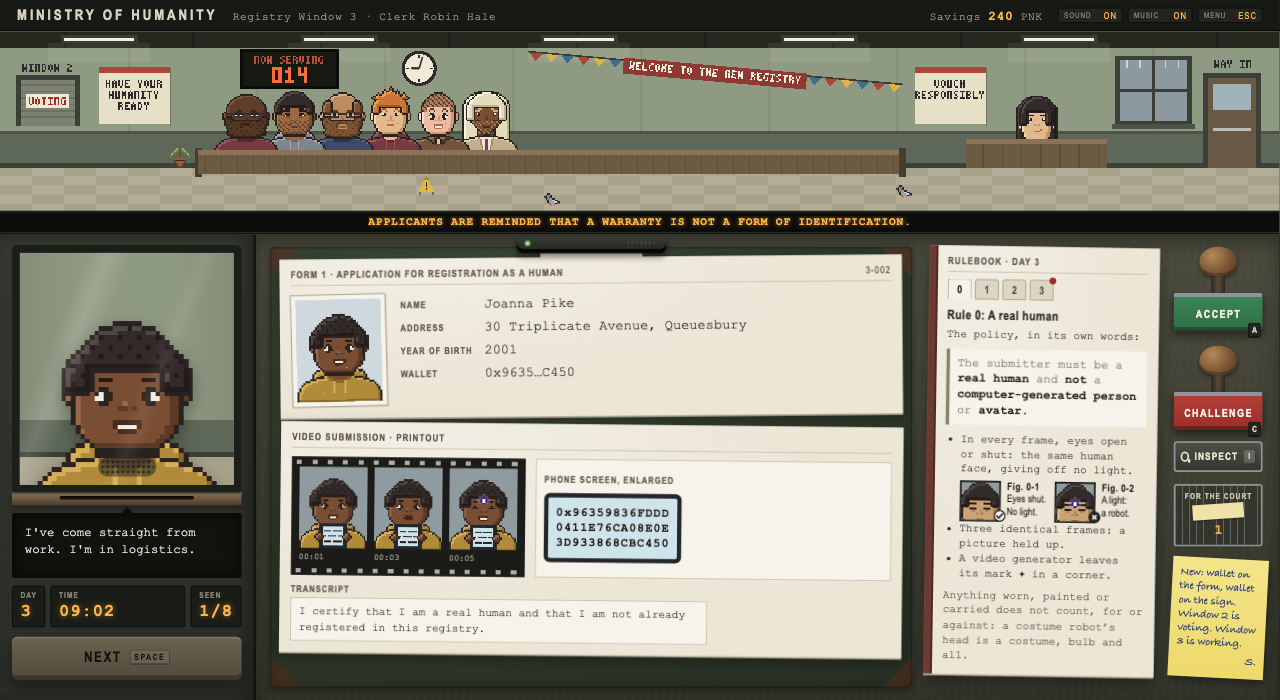
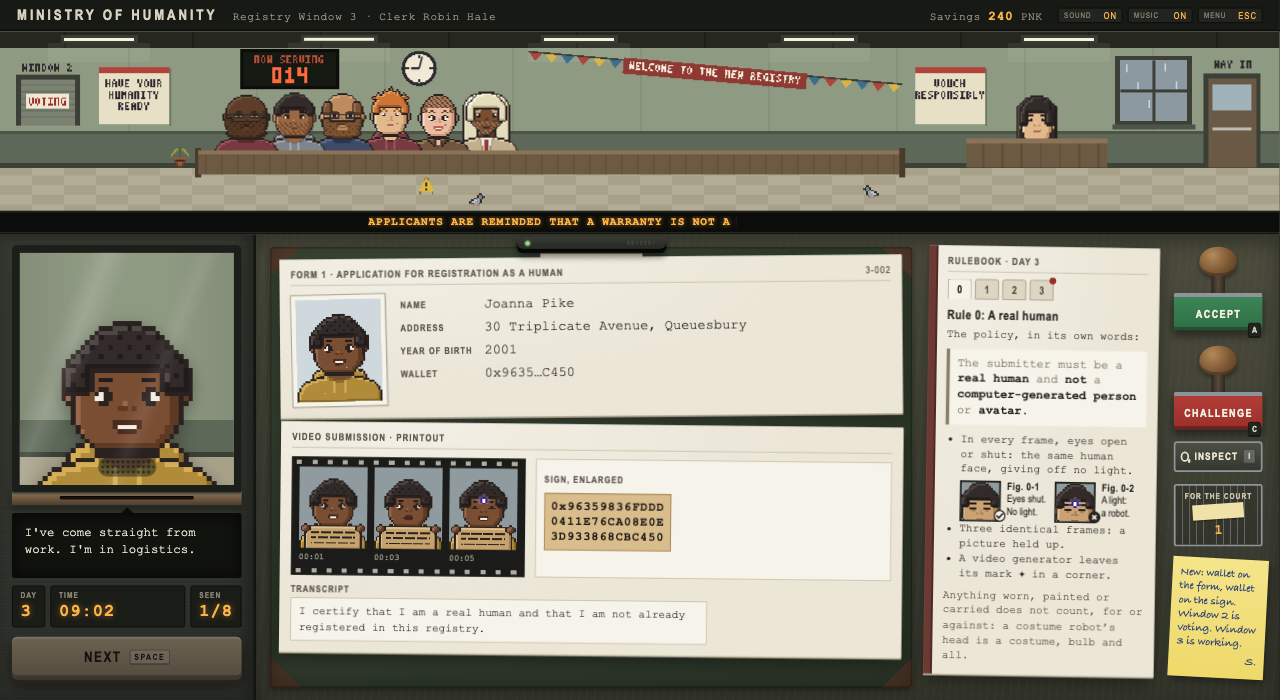
feat(signs): about half the queue hold the address up on a phone, and a phone says nothing
From day 3 a phone was only ever the Rule 3 phone look-alike or the day 3
unit: 3.9% of signs, and a phone-holder was valid 37% of the time against 72%
on paper. Now the medium is a draw of its own for everyone holding an address,
the fakes as often as the honest, the day 3 unit included:

- 49.7% of address signs on a phone over 300 weeks; valid on a phone 72.8%,
  on paper 72.7%; on day 3, Pat aside, 85.2% and 86.3%.
- Pat's laminated sign on day 3 and whoever says they copied the address out
  stay on paper, as they say.
- Memo 0-N no longer depends on the unit's phone.
- The phone's case fits its panel at 1024x768.
- The draw comes from its own seeded stream, so no week, seed or snapshot
  moved.

Checks: typecheck clean; 296 unit tests; 63 e2e.

diff --git a/src/gen/signMedium.test.ts b/src/gen/signMedium.test.ts
@@ -1,0 +1,92 @@
+import { describe, expect, it } from 'vitest';
+import { ON_PAPER } from '../content/applicants';
+import type { GeneratedApplicant } from './applicant';
+import { generateWeek } from './day';
+
+// From day 3 everyone holds their wallet address up in the video, on paper or on a phone's screen.
+// Both are allowed (Rule 3), and the registry's app suggests the phone, so about half use one: the
+// honest and the fakes alike, the units too. Only Pat's laminated sign on day 3 is fixed, on paper.
+const WEEKS = Array.from({ length: 300 }, (_, i) => generateWeek(i + 1));
+const valid = (a: GeneratedApplicant) => a.planted.length === 0;
+/** How someone holds their address up; null if they hold up something else, or nothing. */
+const medium = (a: GeneratedApplicant) => (a.video.sign?.kind === 'address' ? (a.video.sign.phone ? 'phone' : 'paper') : null);
+/** Everyone holding an address up on day `day`, over the 300 weeks. */
+const holders = (day: number) => WEEKS.flatMap((week) => week[day - 1]).filter((a) => medium(a) !== null);
+const SIGN_DAYS = [3, 4, 5, 6, 7];
+const share = (people: GeneratedApplicant[], keep: (a: GeneratedApplicant) => boolean) => people.filter(keep).length / people.length;
+const onPhone = (a: GeneratedApplicant) => medium(a) === 'phone';
+/** How much likelier someone on a phone is to be valid than someone on paper, in points out of 1. */
+const gap = (people: GeneratedApplicant[]) => share(people.filter(onPhone), valid) - share(people.filter((a) => !onPhone(a)), valid);
+/** The one fake whose medium the script fixes: Pat's laminated sign on day 3. */
+const scripted = (a: GeneratedApplicant, day: number) => day === 3 && a.cast === 'pat';
+
+describe('the sign: paper or phone', () => {
+  it('holds the address up on a phone about as often as on paper from day 3: 40 to 60% of address signs, every day', () => {
+    for (const day of SIGN_DAYS) {
+      const phones = share(holders(day), onPhone);
+      expect(phones, `day ${day}`).toBeGreaterThanOrEqual(0.4);
+      expect(phones, `day ${day}`).toBeLessThanOrEqual(0.6);
+    }
+  });
+
+  // Over seeds 1 to 2100, in windows of 300 weeks, no day's gap was over 3.1 points, nor the week's
+  // over 1.3. A draw that gave the honest a phone at 55% and the fakes at 45% was 6.7 to 9 points apart
+  // on days 4 to 7, and 7.6 over the week.
+  // Pat's laminated sign on day 3 is the script's, and the clerk knows Pat by name and face: left aside.
+  it('lets no phone say whether the papers are good: the valid share on a phone and on paper is within 5 points, over the week and each day', () => {
+    const drawn = (day: number) => holders(day).filter((a) => !scripted(a, day));
+    const week = SIGN_DAYS.flatMap(drawn);
+    expect(week.filter((a) => !valid(a)).length).toBeGreaterThan(1000);
+    expect(Math.abs(gap(week))).toBeLessThan(0.05);
+    for (const day of SIGN_DAYS) expect(Math.abs(gap(drawn(day))), `day ${day}`).toBeLessThan(0.05);
+  });
+
+  it('gives the fakes a phone as often as the honest: the phone share of each is within 5 points over the week, Pat’s day 3 sign aside', () => {
+    const week = SIGN_DAYS.flatMap((day) => holders(day).filter((a) => !scripted(a, day)));
+    const honest = share(week.filter(valid), onPhone);
+    const fakes = share(week.filter((a) => !valid(a)), onPhone);
+    expect(week.filter((a) => !valid(a)).length).toBeGreaterThan(1000);
+    expect(Math.abs(honest - fakes), `honest ${honest}, fakes ${fakes}`).toBeLessThan(0.05);
+  });
+
+  it('puts both media among the Rule 3 offenders, and in the hands of the look-alike one character out', () => {
+    const everyone = SIGN_DAYS.flatMap(holders);
+    for (const mistake of ['two-wrong', 'wrong-address'] as const) {
+      const offenders = everyone.filter((a) => a.planted.some((p) => p.rule === 'sign' && p.mistake === mistake));
+      expect(new Set(offenders.map(medium)), mistake).toEqual(new Set(['paper', 'phone']));
+    }
+    const oneOut = everyone.filter((a) => a.lookAlike?.rule === 'sign' && a.lookAlike.kind === 'one-wrong');
+    expect(new Set(oneOut.map(medium))).toEqual(new Set(['paper', 'phone']));
+  });
+
+  it('gives the same medium for the same seed', () => {
+    const media = (seed: number) => generateWeek(seed).map((queue) => queue.map((a) => medium(a)));
+    for (const seed of [1, 2, 7, 40, 123456]) expect(media(seed)).toEqual(media(seed));
+    expect(media(1)).not.toEqual(media(2));
+  });
+
+  it('hands paper to whoever says they copied the address out, unless they are the phone look-alike', () => {
+    const said = SIGN_DAYS.flatMap(holders).filter((a) => ON_PAPER.includes(a.remark));
+    const free = said.filter((a) => !(a.lookAlike?.rule === 'sign' && a.lookAlike.kind === 'phone'));
+    expect(free.length).toBeGreaterThan(10);
+    expect(new Set(free.map(medium))).toEqual(new Set(['paper']));
+  });
+
+  it("gives day 3's unit the same draw as anyone, and Pat the laminated sign Pat promised", () => {
+    const units = WEEKS.map((week) => week[2].find((a) => a.cast === 'unit')!);
+    expect(share(units, onPhone)).toBeGreaterThan(0.4);
+    expect(share(units, onPhone)).toBeLessThan(0.6);
+    for (const week of WEEKS) expect(medium(week[2].find((a) => a.cast === 'pat')!)).toBe('paper');
+  });
+
+  // The clerk knows Pat by name and face from days 1 and 2; set Pat aside and the only fake left on day
+  // 3 is the unit. When its phone was fixed by the script, nobody on paper that day was a fake.
+  it('leaves no lean on day 3 either, Pat aside: the unit is as likely on paper as on a phone', () => {
+    const day3 = holders(3).filter((a) => a.cast !== 'pat');
+    const fakes = day3.filter((a) => !valid(a));
+    expect(fakes.length).toBe(WEEKS.length);
+    expect(new Set(fakes.map((a) => a.cast))).toEqual(new Set(['unit']));
+    expect(new Set(fakes.map(medium))).toEqual(new Set(['paper', 'phone']));
+    expect(Math.abs(gap(day3))).toBeLessThan(0.05);
+  });
+});

diff --git a/src/gen/day.ts b/src/gen/day.ts
@@ -4,7 +4,7 @@
 // it, and `planted` describes each applicant under it. Nothing here depends on what the clerk
 // decides, so a day's queue is the same however the days before it went; the desk judges it
 // against the registry the clerk actually built.
-import { FIRST_NAMES, LAST_NAMES, REMARKS, STREETS, TOWNS } from '../content/applicants';
+import { FIRST_NAMES, LAST_NAMES, ON_PAPER, REMARKS, STREETS, TOWNS } from '../content/applicants';
 import {
   AGENT, CLERK, CLONE, CUTOUT, DEEPFAKE, FIRST_APPLICANT, INFLUENCER, LIKENESS, PAT, PAT_MOTHER, REGULARS, SYBIL_FARM, TWINS,
   TWINS_FORM, UNIT_ON_FILE_RECORD, UNIT_OWNERS, UNITS, type CastId, type RegularId,
@@ -101,6 +101,7 @@ const EXTRAS: readonly (readonly [Extra, number])[] = [
 ];
 
 type Week = {
+  seed: number;
   rng: Rng;
   /** Names, addresses and remarks already used this week, so nobody repeats. */
   used: Set<string>;
@@ -112,7 +113,7 @@ type Week = {
 
 export function planWeek(seed: number): WeekPlan {
   const rng = createRng(seed);
-  const w: Week = { rng, used: new Set(CAST_NAMES), faces: new Set(), refused: [] };
+  const w: Week = { seed, rng, used: new Set(CAST_NAMES), faces: new Set(), refused: [] };
   for (const p of [...Object.values(CAST_PORTRAITS), FIRST_APPLICANT_PORTRAIT, CATALOGUE_GENTLEMAN, CLONE_PORTRAIT]) w.faces.add(faceKey(p));
 
   // Who comes when. Ethel is registered on the first morning; the other regulars come once, from
@@ -143,7 +144,7 @@ export function planWeek(seed: number): WeekPlan {
     const seen: Registry[] = [];
     const challenged: GeneratedApplicant[] = [];
     queue.forEach((a, n) => {
-      if (day >= 3) papersForSign(w, a, queue, n);
+      if (day >= 3) papersForSign(w, a, queue, day, n);
       if (day >= 4 && a.voucher === undefined) a.voucher = chooseVoucher(w, a, registry, day);
       seen.push(registry);
       registry = atWindow(registry, a);
@@ -267,8 +268,16 @@ function arrange(rng: Rng, n: number, first: GeneratedApplicant | null, early: G
 
 // ---------------------------------------------------------------- papers
 
-/** Wallet on the form and sign in the video, from day 3. */
-function papersForSign(w: Week, a: GeneratedApplicant, queue: GeneratedApplicant[], n: number) {
+/** Share of the queue who hold their address up on a phone rather than on paper. */
+const ON_A_PHONE = 0.5;
+
+/**
+ * Wallet on the form and sign in the video, from day 3. The registry's app suggests a phone for the
+ * sign, so about half the queue hold one up and the rest have written the address out, the honest and
+ * the fakes alike, units included. A few hold what they said they would: Pat's laminated sign on day 3
+ * and anyone who says they copied the address out are on paper, the `phone` look-alike on a phone.
+ */
+function papersForSign(w: Week, a: GeneratedApplicant, queue: GeneratedApplicant[], day: number, n: number) {
   const { rng } = w;
   a.wallet ??= wallet(rng);
   if (a.video.sign !== undefined) return;
@@ -285,8 +294,24 @@ function papersForSign(w: Week, a: GeneratedApplicant, queue: GeneratedApplicant
     sign = { kind: 'address', text: other.wallet };
   } else if (kind === 'one-wrong') sign = { kind: 'address', text: miswrite(rng, a.wallet, 1) };
   else if (kind === 'phone') sign = { kind: 'address', text: a.wallet, phone: true };
+  const onPaper = (a.cast === 'pat' && day === 3) || ON_PAPER.includes(a.remark);
+  if (sign?.kind === 'address' && !onPaper && onPhone(w.seed, day, n)) sign = { ...sign, phone: true };
   a.video = { ...a.video, sign };
 }
+
+/**
+ * Whether the day's n-th applicant has their address on a phone: a draw of its own, from the week's
+ * seed, the day and the place in the queue, never from the week's stream, so nothing else in the week moves.
+ */
+const onPhone = (seed: number, day: number, n: number) =>
+  createRng([seed, day, n].reduce((h, part) => fmix(((h ^ part) + 0x9e3779b9) >>> 0), 0x70686f6e /* "phon" */)).next() < ON_A_PHONE;
+
+// Murmur3's finaliser: every bit of the input moves every bit of the output.
+const fmix = (h: number) => {
+  h = Math.imul(h ^ (h >>> 16), 0x85ebca6b);
+  h = Math.imul(h ^ (h >>> 13), 0xc2b2ae35);
+  return (h ^ (h >>> 16)) >>> 0;
+};
 
 /** From day 4: a voucher who is registered and free today, unless the applicant's fault is the voucher. */
 function chooseVoucher(w: Week, a: GeneratedApplicant, registry: Registry, day: number): string {
@@ -400,8 +425,6 @@ function unitOn(day: number): GeneratedApplicant {
     planted: tell ? [{ rule: 'human', mistake: 'machine' }] : [],
   };
   if (day >= 3) a.wallet = u.wallet;
-  // Day 3: the address on its phone, in full and the right way up.
-  if (day === 3) a.video = { ...a.video, sign: { kind: 'address', text: u.wallet, phone: true } };
   if (day === 4) {
     a.voucher = LIKENESS;
     a.planted = [{ rule: 'vouch', mistake: 'company' }];

diff --git a/e2e/fit.spec.ts b/e2e/fit.spec.ts
@@ -83,3 +83,31 @@ for (const [width, height] of [
     ]);
   });
 }
+
+// From day 3 about half the queue hold their address up on a phone, a case drawn around the screen:
+// it must be no wider than a paper sign and fit the panel wherever a sign does. Seed 1, day 6: the
+// first applicant holds paper, the third a phone.
+test('a phone held up in the video is no wider than a paper sign and stays inside its panel at 1024×768', async ({ page }) => {
+  await page.setViewportSize({ width: 1024, height: 768 });
+  await page.goto('/?seed=1&day=6');
+  await page.getByRole('button', { name: /Open the window/ }).click();
+  const panel = page.getByTestId('sign');
+  // The printout lands turned a few degrees, which widens every box on it until it settles.
+  const landed = () => page.waitForFunction(() => document.querySelector('.paper-video')?.getAnimations().every((a) => a.playState === 'finished'));
+  await page.getByRole('button', { name: 'Call next applicant' }).click();
+  await expect(panel.getByText('Sign, enlarged')).toBeVisible();
+  await landed();
+  const paper = (await panel.locator('.sign-text').boundingBox())!;
+  for (let i = 0; i < 2; i++) {
+    await page.getByRole('button', { name: 'Challenge' }).click();
+    await page.getByRole('button', { name: 'Call next applicant' }).click();
+  }
+  await expect(panel.getByText('Phone screen, enlarged')).toBeVisible();
+  await landed();
+  const [phone, still] = [(await panel.locator('.sign-text.phone').boundingBox())!, (await panel.boundingBox())!];
+  expect(phone.width).toBeLessThanOrEqual(paper.width);
+  expect(phone.x).toBeGreaterThanOrEqual(still.x);
+  expect(phone.x + phone.width).toBeLessThanOrEqual(still.x + still.width);
+  expect(phone.y + phone.height).toBeLessThanOrEqual(still.y + still.height);
+  await fitsIn(page, 1024, 768, [panel]);
+});

diff --git a/src/content/applicants.ts b/src/content/applicants.ts
@@ -29,6 +29,11 @@ export type Town = (typeof TOWNS)[number];
 
 type Lines = readonly string[];
 
+/** Said by someone who wrote their address out by hand: from day 3 they hold it up on paper, never on a phone. */
+const COPIED_IT_OUT = "I copied my wallet address out this morning. Forty-two characters. I've never concentrated so hard.";
+/** Remarks that say the sign is handwritten. Whoever says one holds their address up on paper. */
+export const ON_PAPER: readonly string[] = [COPIED_IT_OUT];
+
 /**
  * What applicants say at the window. Small talk: never part of the video, and no rule reads it.
  * Most remarks are about something the clerk can see (the coat, the mustache, the street on
@@ -95,7 +100,7 @@ export const REMARKS: {
     "If I'm challenged, do I get a lawyer or a jury? I'd prefer a lawyer. Juries have opinions.",
     "I don't know what a registry is, but I would like to be in one.",
     "My neighbour vouched for me, then I vouched for him. We've been doing it all week.",
-    "I copied my wallet address out this morning. Forty-two characters. I've never concentrated so hard.",
+    COPIED_IT_OUT,
     "Please don't say the word wallet too loudly. My mother doesn't know I have one.",
     "It says submissions are final and cannot be edited. I haven't slept since I read that.",
     'I was registered last year, but it expired in March. I was a bit less human for a fortnight.',

diff --git a/src/content/verdicts.ts b/src/content/verdicts.ts
@@ -54,7 +54,7 @@ export const CITATION_MEMOS: Record<RuleId, readonly string[]> = {
 export const UNIT_MEMOS: readonly string[] = [
   'Memo 0-L: The applicant was a home robot. It shut its eyes and lit up. Humans do only one of those.',
   'Memo 0-M: The applicant shut its eyes twice in five seconds, and switched on both times. Its household has been informed.',
-  'Memo 0-N: Two things were lit in frame 3: the phone, which was held up, and the forehead, which was not.',
+  'Memo 0-N: The address in frame 3 was in order. The light above it was not.',
   'Memo 4-L: A company is not a registered human, whatever its brochure says.',
   'Memo 5-L: The factory made this face twice. The registry takes each face once.',
   'Memo 0-P: Likeness Robotics has asked what the income is per unit. The Ministry has not replied.',

diff --git a/src/ui/desk.css b/src/ui/desk.css
@@ -1451,10 +1451,12 @@ mark {
   line-height: 1.3;
 }
 
-/* The same address on a phone: a lit screen in a dark case. */
+/* The same address on a phone: a lit screen in a dark case. Case and screen margin together are a
+   pixel inside the paper's 8px a side, so a phone is no wider than a sign and fits the panel wherever
+   a sign does, even once the stage's scale has rounded the case. */
 .sign-text.phone {
-  padding: 8px 9px;
-  border: 5px solid #23262b;
+  padding: 8px 3px;
+  border: 4px solid #23262b;
   border-radius: 7px;
   background: #cfe3ea;
   box-shadow: none;

diff --git a/src/gen/applicant.ts b/src/gen/applicant.ts
@@ -32,7 +32,11 @@ export type LookAlikes = {
   human: 'costume';
   phrase: never;
   photo: 'new-look';
-  /** One character wrong; the address on a phone's screen. */
+  /**
+   * One character wrong; the address on a phone's screen. Since about half of everyone holds a phone
+   * up (day.ts papersForSign), `phone` looks like anyone and tests nothing; it stays so the week's
+   * random numbers do not move.
+   */
   sign: 'one-wrong' | 'phone';
   vouch: 'ethel' | 'week-registrant';
   duplicate: 'first-cousin' | 'twin';

diff --git a/notes/game-design.md b/notes/game-design.md
@@ -33,7 +33,7 @@ As in Papers, Please, the story is scripted and the filler is random. One thread
 |---|---|---|
 | 1 | The phrase; Rule 0 is on the first page, as it has always been, and on day 1 the rulebook is open there at every call. No Gazette yet: the supervisor's welcome letter, which says what a unit is and why it lights up. | Tutorial: a valid applicant, then the "hooman", with one guided inspect (pressing INSPECT turns the book to Rule 1). Then the first unit, whose forehead lights up when it shuts its eyes in frame 3, as in Rule 0's Fig. 0-2. |
 | 2 | Photo. Someone registered with a photo of a more attractive man. | The clock arrives. Pat's mirror selfie; the unit shuts its eyes twice in five seconds and lights up both times. |
-| 3 | The sign. A registration was claimed with someone else's wallet. | The unit holds its address up on a phone and shuts its eyes: two lights in frame 3, and only the phone is held up. The fork is proposed. |
+| 3 | The sign. A registration was claimed with someone else's wallet. | The unit holds its address up in order, on paper or on a phone like anyone, and shuts its eyes in frame 3: the address passes and the light above it does not. The fork is proposed. |
 | 4 | One vouch. Registry lookup opens. A man registered at Window 6 on his own vouch. | Pat and the mother. The unit is vouched for by its maker. |
 | 5 | No duplicates. Three cousins with one face. | The Sybil Farm, the Twins, and a unit whose face Window 7 registered last month. |
 | 6 | Living. Socrates. | Hardest day. Pat's perfect application. |
@@ -42,14 +42,14 @@ As in Papers, Please, the story is scripted and the filler is random. One thread
 ## Funny is not the same as fake
 - **Most applicants are valid:** about 65 to 75% on any day (day 1, the scripted tutorial, is 3 of 5). Later days are harder because fakes get subtler and there is more to check, not because there are more fakes.
 - **One fault per applicant, every day.** Papers, Please's designer found that more faults per entrant made the game easier, not harder. Difficulty comes from subtler faults and more rules in force. The only exceptions are two non-humans that also get something else wrong: the Agent's video is generated (Rule 0) and it slips on one more rule, and the Cardboard Cutout is a picture (Rule 0) that cannot blink (Rule 6). Nobody breaks more than one of Rules 1 to 6, and each Likeness unit breaks one rule only.
-- **Appearance never gives the answer.** Roughly half of the absurd-looking appearances are valid. The best jokes are the ridiculous applicant who is completely legit and the boring-looking one who is a sybil. Rule 0 is read from the video, not from the window: the units, the Deepfake and the Agent look like anyone at the window, and Dave, robot helmet and all, is human in every frame.
+- **Appearance never gives the answer.** Roughly half of the absurd-looking appearances are valid. The best jokes are the ridiculous applicant who is completely legit and the boring-looking one who is a sybil. Rule 0 is read from the video, not from the window: the units, the Deepfake and the Agent look like anyone at the window, and Dave, robot helmet and all, is human in every frame. What the sign is on says nothing either: from day 3 about half the queue hold their address up on a phone, fakes and honest alike, the units included.
 - **Nothing point-like between the brows, on anyone.** That is where a unit's lamp shows, so no applicant gets a bindi, a tikka, a gem or a sticker there, and a cultural mark is never a trap. Anything worn across the forehead is a band, not a point, and is there in the photo and in every frame.
 - **The rulebook is the only judge.** An absurd applicant who breaks no rule in force is valid and must be accepted, with a straight face. Each new rule comes with its reason, usually something that got registered the day before.
 
 ## What the player sees for each applicant
 Kept small so checking stays quick:
 - **Profile card:** name, procedurally drawn photo, address, birth year, and from day 3 the wallet address, shortened the way a wallet shows it (0x3F9A…C21E).
-- **Video strip:** three frames, a transcript of at most two lines, and from day 3 the sign they hold up. A blink shows as closed eyes in a frame (two, for someone who blinks twice); no label ever says whether anyone blinked.
+- **Video strip:** three frames, a transcript of at most two lines, and from day 3 the sign they hold up, written on paper or on a phone's screen. A blink shows as closed eyes in a frame (two, for someone who blinks twice); no label ever says whether anyone blinked.
 - **Voucher:** one name, from day 4.
 - **Registry lookup,** from day 4: a Look up button beside the voucher's name (or V) says whether they are registered and whom they are already vouching for today; a Search this face button on the video printout (or F) says whether the face is on file already. The Registry tab opens with the answer, which states facts, never a verdict. A name can also be typed. On the day a tool arrives (the lookup on day 4, the face search on day 5), a line under the first applicant's papers says what it is and which key to press, and goes once the player uses that tool; it never says what to look up or what the answer means.
 - **Rulebook:** a page per rule, today's rule open; on day 1, Rule 0, at every call, so the welcome letter, the sticky note and the book agree (the guided Inspect turns it to Rule 1, the page its hint names). It fits the window without scrolling. Under Rule 0's first check is Fig. 0: the Ministry's specimen face, nobody in the queue, in a video frame with its eyes shut, twice: ✓ Fig. 0-1, no light; ✗ Fig. 0-2, a light between the brows as big as that day's unit's (the smallest on a day without one), captioned "A light: a robot.", so the book says what the light means. A caption is three lines at most: a fourth makes the figure taller than its stills, and on day 6 the page then costs the hall. It is drawn by the game's own renderer at the desk's scale, and shows what to look for, never who: the face is nobody's, and the hair is no fake's (it was short and dark brown, like every week's day 2 unit, until 29 Sep 2026; now it is black). Day 7's unit has a lit slit, which the renderer's lamps do not have yet: until slice 5 adds it, Fig. 0-2 shows the small lamp on day 7, and slice 5 must give it the slit.
@@ -86,10 +86,10 @@ The real policy's aim is a registry where each entry is "a unique, living, exist
 
 | Day | Rule | In the real registry | Offenders | Valid look-alikes |
 |---|---|---|---|---|
-| 0 (always) | A real human: in every frame of the video, eyes open or shut, the same human face, giving off no light of its own, a person and not a picture held up, filmed and not generated. Anything worn, painted or carried does not count, for or against. The rulebook quotes the policy with the words that count in bold, and shows Fig. 0 under the lamp check. | The policy's first requirement in every version since 2021: "The submitter must be a real human and not a computer-generated person or avatar." A human in a mask or costume is a formatting matter under the real rules, not a humanity one. The challenge reason was "Does not exist", now "Sybil attack". | a Likeness unit (a light between the brows in every frame where its eyes are shut); the Deepfake (the ears change between frames); the Cardboard Cutout (three identical frames: a picture held up, not a person); the Agent (a video generator's mark ✦ in the corner of every frame) | Dave, a costume robot's head under his arm, bulb and all; the second Twin, filmed with the first; Nervous Nigel, eyes shut at 00:01 and 00:05 and no light either time; anyone holding their address up on a lit phone (from day 3) |
+| 0 (always) | A real human: in every frame of the video, eyes open or shut, the same human face, giving off no light of its own, a person and not a picture held up, filmed and not generated. Anything worn, painted or carried does not count, for or against. The rulebook quotes the policy with the words that count in bold, and shows Fig. 0 under the lamp check. | The policy's first requirement in every version since 2021: "The submitter must be a real human and not a computer-generated person or avatar." A human in a mask or costume is a formatting matter under the real rules, not a humanity one. The challenge reason was "Does not exist", now "Sybil attack". | a Likeness unit (a light between the brows in every frame where its eyes are shut); the Deepfake (the ears change between frames); the Cardboard Cutout (three identical frames: a picture held up, not a person); the Agent (a video generator's mark ✦ in the corner of every frame) | Dave, a costume robot's head under his arm, bulb and all; the second Twin, filmed with the first; Nervous Nigel, eyes shut at 00:01 and 00:05 and no light either time; anyone holding their address up on a lit phone (about half the queue, from day 3) |
 | 1 | The video contains the key words of the phrase, in order: "**I certify** that **I am** a **real human** and that **I am not** already **registered** in this **registry**." The small words (that, a, and, already, in, this) may be swapped or left out, "I'm" counts as "I am", and anything else said, before, after or in between, is not assessed. The rulebook prints the key words in bold. | The phrase is word for word the real one. The real policy is kinder still: accents, mispronunciations and swapped words "are not grounds for rejection". | "a real hooman"; "in this ministry"; silence; the Agent's paraphrase | an "um" or a "sorry" in the middle; "I'm"; "in the registry" |
 | 2 | The photo is of the face in the video, facing the camera, and not mirrored. | Incorrect submission. Filters and mirrored selfies are banned. In 2023 one challenger went through the queue removing every mirrored photo; a vote to allow them ("check if you identify yourself every morning in the bathroom mirror") was blocked on procedure. | a photo of someone better-looking; a mirrored selfie (the mole is on the other cheek); the Influencer's filter | a new haircut or new glasses (hair is not the face) |
-| 3 | The sign in the video shows the wallet address on the form, in full and the right way up, on paper or on a phone's screen. One character may be wrong; two may not. | The real rule, one-typo allowance included: the full address, "no ENS; no ellipsis", held "in the right orientation to be read", and "the sign can be a screen" (the current app suggests a phone). | two characters wrong; no sign; the Agent's QR code; someone else's address (the next person in the queue's) | one character wrong; the address on a phone |
+| 3 | The sign in the video shows the wallet address on the form, in full and the right way up, on paper or on a phone's screen. One character may be wrong; two may not. | The real rule, one-typo allowance included: the full address, "no ENS; no ellipsis", held "in the right orientation to be read", and "the sign can be a screen" (the current app suggests a phone). | two characters wrong; no sign; the Agent's QR code; someone else's address (the next person in the queue's) | one character wrong; the address on a phone, which since 29 Sep 2026 about half of everyone shows, as the real app suggests, the fakes as often as the honest. The generator keeps its `phone` look-alike kind, always on a phone, but it now looks like anyone and tests nothing, even as day 3's first applicant. Every fault above but the QR code and no sign turns up on paper and on a phone, and whoever says they copied the address out holds paper. Pat's laminated sign on day 3 is paper, as Pat says it will be. The day 3 unit takes the same draw as anyone: when the script gave it a phone every week, day 3's only other fake was Pat, so nobody on paper that day but Pat was a fake. |
 | 4 | One vouch, from a registered human who is not already vouching for someone else. | One vouch, from someone who knows you; each vouch serves one applicant at a time; when a vouchee is removed as a sybil, the voucher is removed too. | vouched for by a company (a Likeness unit, by its maker); by someone not registered (Pat's mother); the Voucher Ring (three strangers vouching in a circle, none registered; not built yet); the second person Ethel vouches for today | vouched by Ethel (her first today); vouched by anyone the registry lists, even a fake the player let in yesterday |
 | 5 | No face already in the registry. | Duplicate (in the second registry, "Sybil attack"). Registering several times at once rejects every one. A twin is registered by filming both twins together. | the Sybil Farm (every cousin after the first one registered); Your Clone; a Likeness unit (its factory face is on file); a fake accepted earlier in the week, back in a hat | a family of four at one address (four faces; not built yet); the second Twin, filmed with the first; the Farm's first cousin |
 | 6 | Living: born between 1900 and today, and blinks in the video. | Deceased, and Does not exist: "submitters not able to give recent proof of life are to be considered deceased". Deepfakes were first caught because they rarely blinked. | Socrates (born 470 BC: he comes before day 6, and the rule is made because of him); the Cardboard Cutout (same pose in every frame, no blink); the Agent (born "v4"); a typo in the year (1197) | Grandma Ethel (1922); Nigel (blinks constantly) |

diff --git a/notes/acceptance.md b/notes/acceptance.md
@@ -5,9 +5,9 @@ Fill Evidence with a commit hash, test output, screenshot path or clip. "The age
 ## Always true
 | Check | Evidence |
 |---|---|
-| `npm run typecheck` and `npm test` pass | 2026-09-29, after Rule 0 first, its Fig. 0, the film on the citation, the letter that says what a unit is, and their review fixes: typecheck clean; `npm test` 31 files, 288 tests passed; `npm run test:e2e` 62 passed (the whole suite, 2.7 min: rule0 7, slice1 5, slice2 10, slice3 8, slice4 12, fit 8, save 6, portraits 2, music 3, smoke 1) |
+| `npm run typecheck` and `npm test` pass | 2026-09-29, after the sign on a phone as often as on paper, and its review fixes: typecheck clean; `npm test` 32 files, 296 tests passed; `npm run test:e2e` 63 passed (the whole suite, 2.8 min) |
 | No UI label states a rule result (e.g. "Blink detected"); the player must find it in the evidence | "Blink detected" removed from the video strip. `src/ui/labels.test.tsx`: the rendered form, video printout and registry answers of all 530 applicants of 10 weeks contain no result word; `e2e/slice3.spec.ts` checks the papers of every applicant its `stamp` helper stamps in the browser |
-| Nothing but the evidence tells: a unit's address is on the same streets as everyone's, and a voucher registered before the week or during it says nothing about the papers; Fig. 0 is the same for every applicant all day, its face is nobody's, and its hair is no fake's; on day 1 the book turns only at a call and at the guided Inspect | `src/gen/day.test.ts` "gives the units ordinary addresses…" and "lets no voucher say whether the papers are good…" (300 weeks: the valid share with a town voucher and with a week's registrant within 10 points); `src/gen/portrait.test.ts` "lights each day's unit between the brows, on the face…" (never on an eye, the nose, the mouth or clothing; its spill tints the inner brows, as light does and paint does not); `src/ui/rule0Figure.test.tsx` "is nobody" (the cast, and every face queued or on file in 50 weeks) and "wears no fake's hair…" (no unit or scripted fake shares it, and a look-alike is no likelier a fake than anyone: the specimen's short dark-brown hair was every week's day 2 unit's, and is now black); `e2e/rule0.spec.ts` "day 1: the book is open at Rule 0…" |
+| Nothing but the evidence tells: a unit's address is on the same streets as everyone's, and a voucher registered before the week or during it says nothing about the papers, nor does a sign on a phone rather than on paper; Fig. 0 is the same for every applicant all day, its face is nobody's, and its hair is no fake's; on day 1 the book turns only at a call and at the guided Inspect | `src/gen/day.test.ts` "gives the units ordinary addresses…" and "lets no voucher say whether the papers are good…" (300 weeks: the valid share with a town voucher and with a week's registrant within 10 points); `src/gen/signMedium.test.ts` (300 weeks, days 3 to 7: 49.7% of address signs on a phone, 50.2 to 51.0% on days 4 to 7 and 45.3% on day 3, where Pat's laminated sign is paper as Pat says; with that one scripted sign aside, valid on a phone 72.8%, on paper 72.7%, within 5 points over the week and on each day (the largest day, 1.9); honest and fakes on a phone 51.0% and 50.9%; day 3's unit takes the same draw as anyone (on a phone in 53.7% of weeks), so on day 3, Pat aside, valid on a phone 85.2% and on paper 86.3%; two characters wrong, someone else's address and the one-wrong look-alike each on both; same seed, same medium; whoever says they copied the address out on paper. Each fails a mutant: the old draw, phones only for the phone look-alike and the day 3 unit (3.9% phones, valid on a phone 37.4% against 72.3% on paper; 4 cases fail); phones for 55% of the honest and 45% of fakes (2 cases fail, where a 10-point bound let it pass); Pat on a phone on day 3; the remark ignored; the day 3 unit back on a fixed phone (3 cases fail: with Pat aside, every paper sign that day was valid). The main stream does not move: 300 weeks hash the same with the medium left out, and the replay snapshots are byte-identical. `e2e/fit.spec.ts` "a phone held up in the video is no wider than a paper sign…" (1024×768, seed 1 day 6: the old case ran 10.5px past its panel, and fails it); `notes/evidence/slice3/sign-phone.png`, `sign-paper.png`, `sign-phone-1024.png`); `src/gen/portrait.test.ts` "lights each day's unit between the brows, on the face…" (never on an eye, the nose, the mouth or clothing; its spill tints the inner brows, as light does and paint does not); `src/ui/rule0Figure.test.tsx` "is nobody" (the cast, and every face queued or on file in 50 weeks) and "wears no fake's hair…" (no unit or scripted fake shares it, and a look-alike is no likelier a fake than anyone: the specimen's short dark-brown hair was every week's day 2 unit's, and is now black); `e2e/rule0.spec.ts` "day 1: the book is open at Rule 0…" |
 | Scoring uses judge() against the live registry: an applicant vouched for by a fake the player accepted earlier is valid | `src/replay.test.ts` "scoring against the live registry" (through the UI reducer, both ways, plus a face registered earlier coming back as a duplicate); `e2e/slice3.spec.ts` "a week at the desk": the day 3 unit let in, and on day 6 the applicant it vouches for is accepted with no citation. `notes/evidence/slice3/live-registry-vouch.png` |
 | Same seed produces identical applicants, court results and day totals (snapshot test) | `src/replay.test.ts` "same seed, same week": two whole runs (seeds 1 and 2) through the UI reducer, snapshot in `src/__snapshots__/replay.test.ts.snap` |
 | `src/rules`, `src/gen`, `src/court`, `src/economy` never import React or use `Math.random`/`Date.now` (grep check) | `src/purity.test.ts` covers every source file there, including slice 3's new ones (`src/rules/*`, `src/court/court.ts`, `src/gen/gazette.ts`, `src/gen/lines.ts`) |
